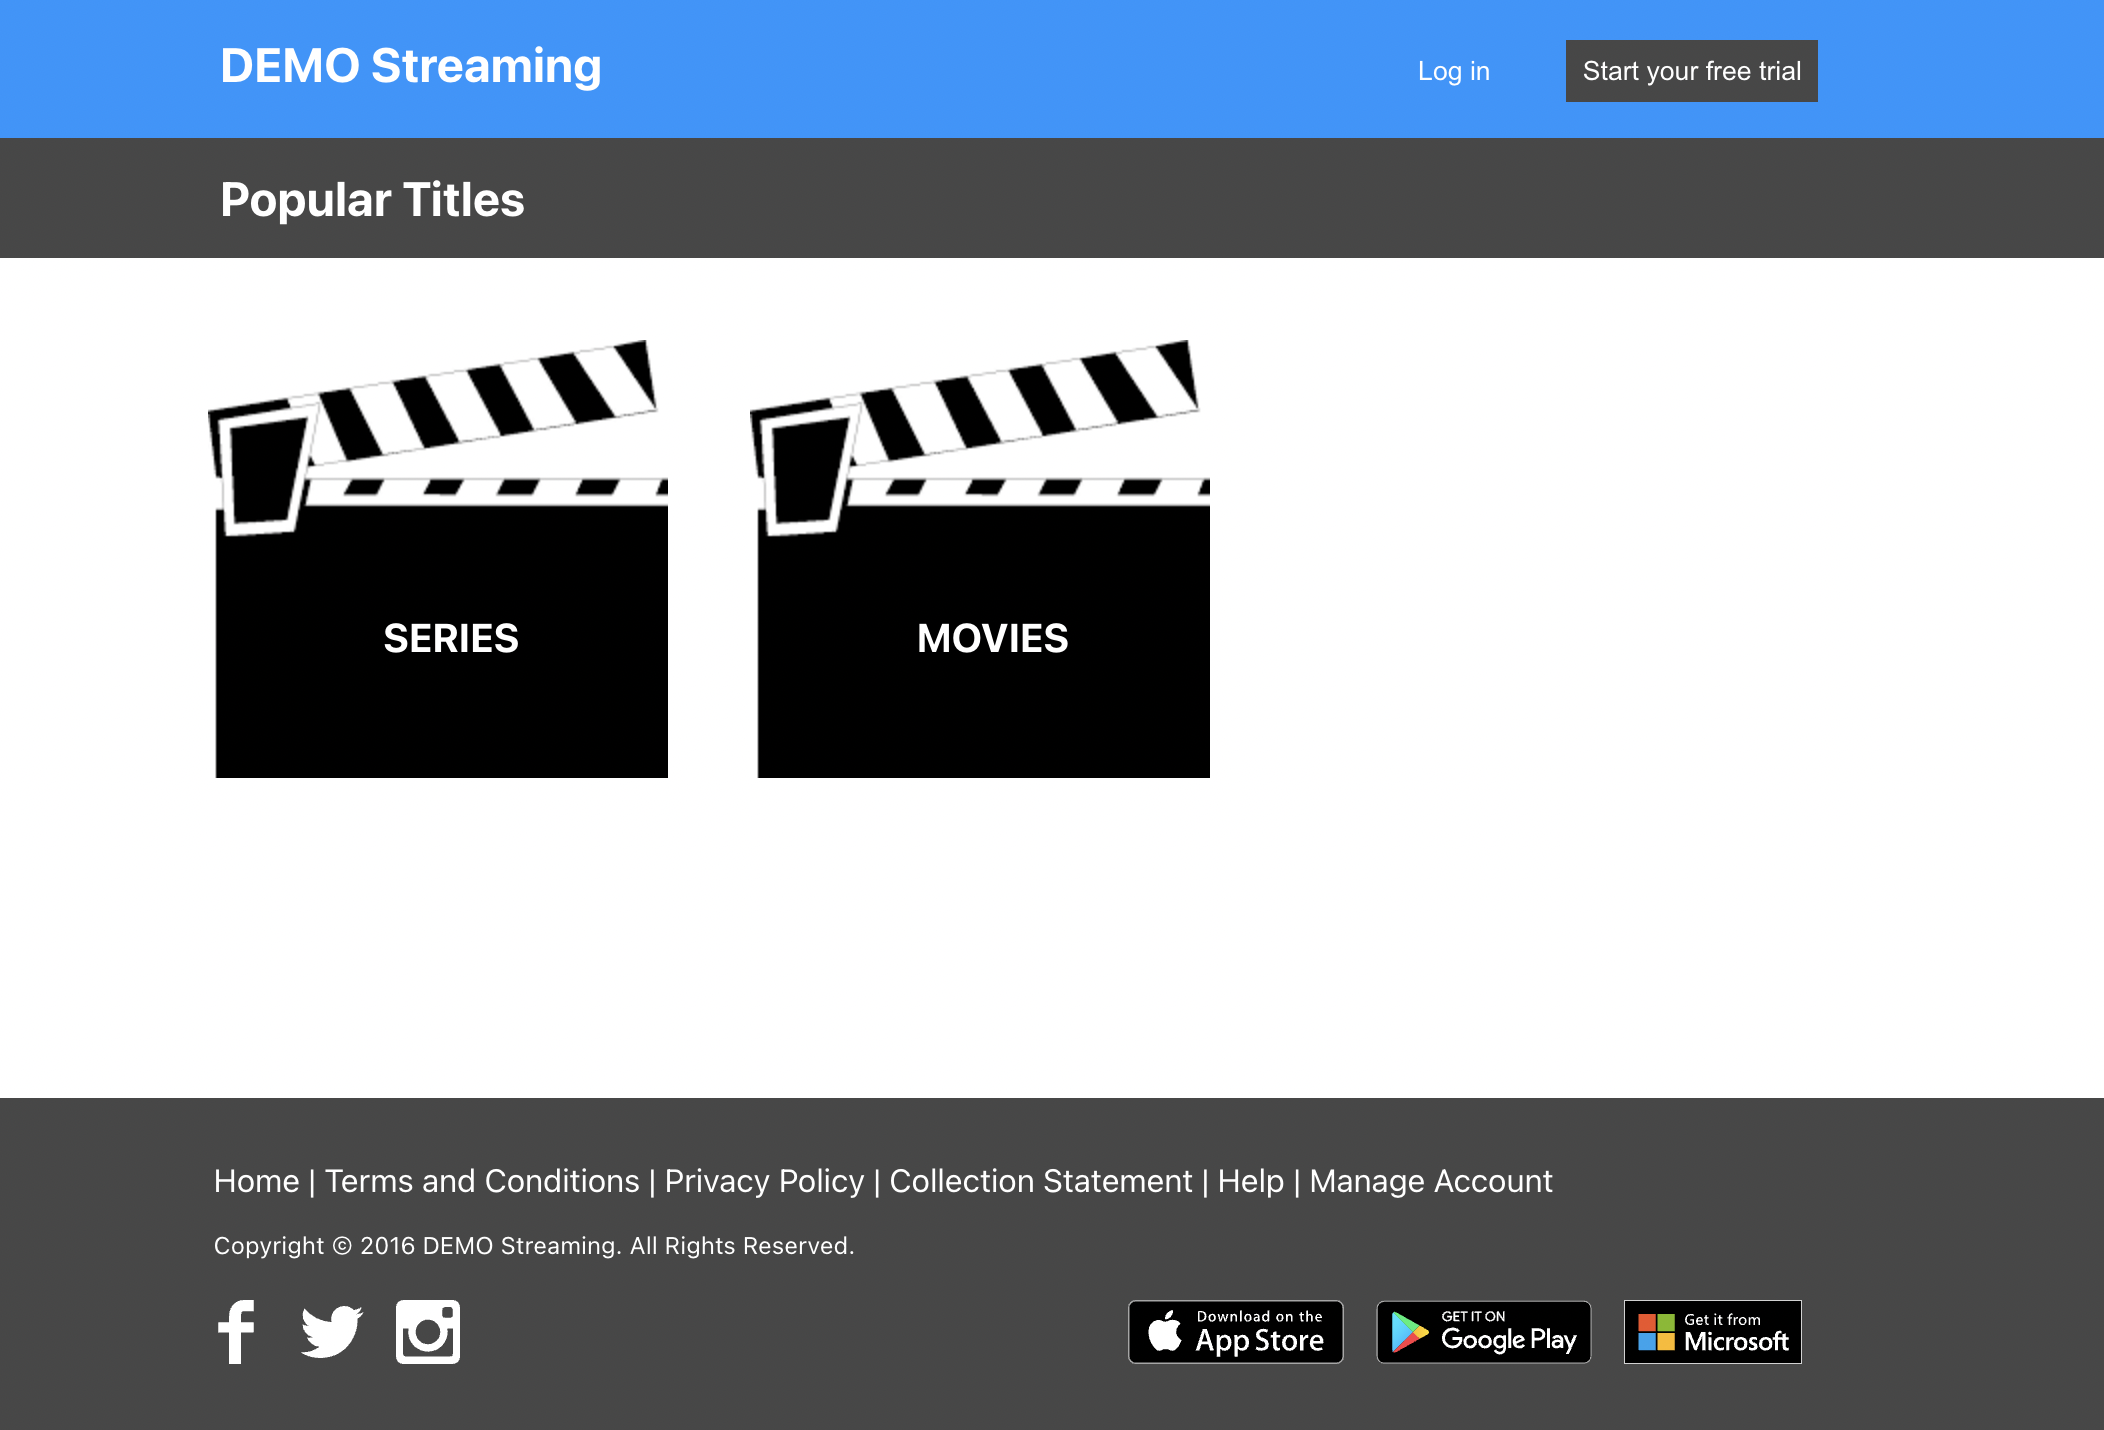
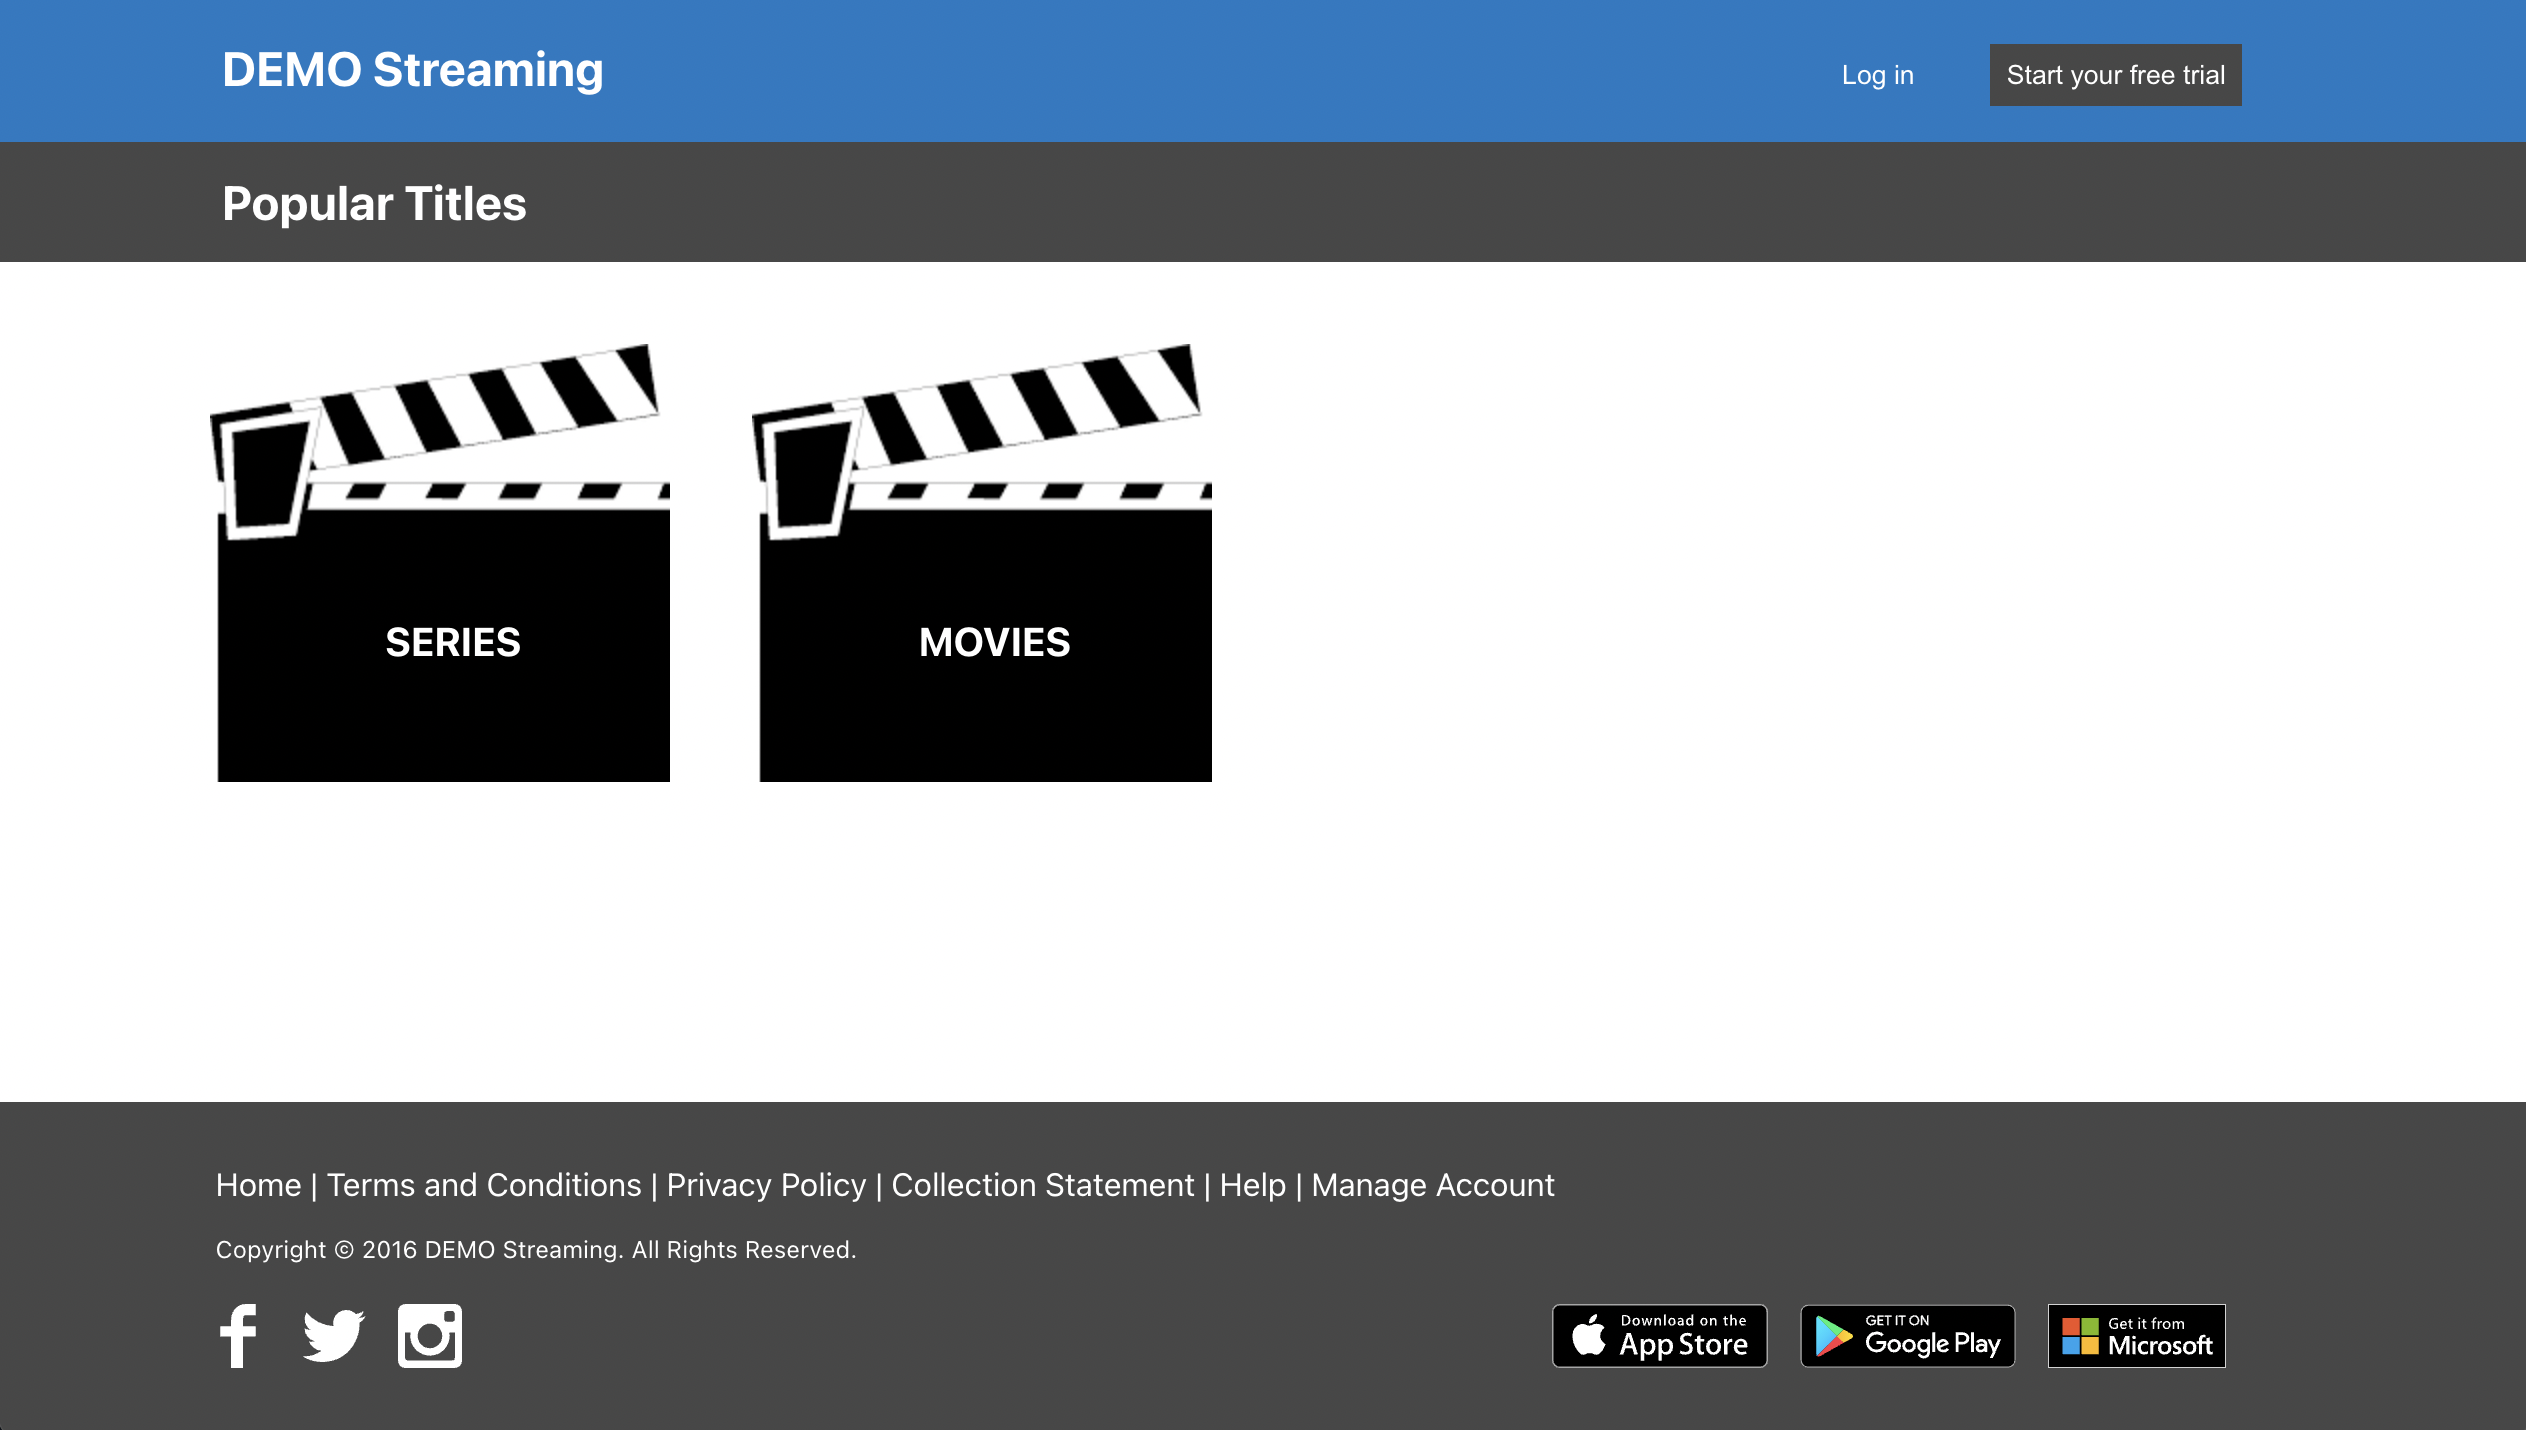
Update screenshots to match darker header

diff --git a/README.md b/README.md
@@ -16,7 +16,7 @@ I sorted the files in very specific ways, as well, so that the code is easier to
 
 I implemented Router to change URLs between pages, because the code is simple to use and understand, and it allows the user to favorite pages and use the back button.
 
-I used Lighthouse, because I want every project I make to score 100% on accessibility, and that is a quick, easy, well-regarded way to gauge it. This is why I went darker with the header bar after completing the project and screenshotting it, because I needed a higher contrast ratio to reach its best. The site scores 100 on all 3 pages: home, movies, and series.
+I used Lighthouse, because I want every project I make to score 100% on accessibility, and that tool is a quick, easy, well-regarded way to gauge it. The tool informed that I needed a higher contrast ratio, so that's why I changed used a darker blue header background color. Now, the app scores 100 on all 3 pages: home, movies, and series.
 
 ### Are there any improvements you could make to your submission?
 
@@ -24,8 +24,6 @@ I would love to dry up the code and use more dynamic functions, as well as impro
 ### What would you do differently if you were allocated more time?
 
 I would really have liked to learn and implement hooks. 
-
-I would update screenshots to reflect the darker header after using a Lighthouse report.
 
 ## Languages and technology
 
